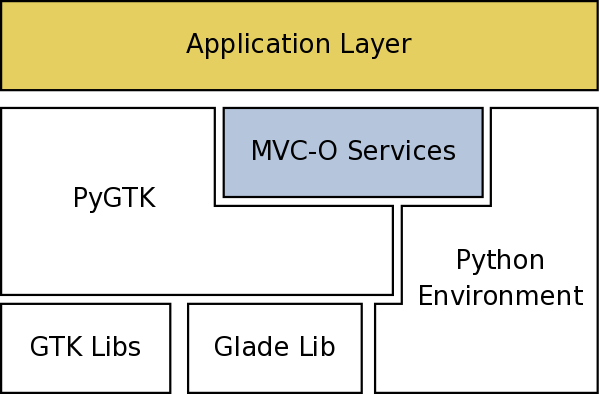
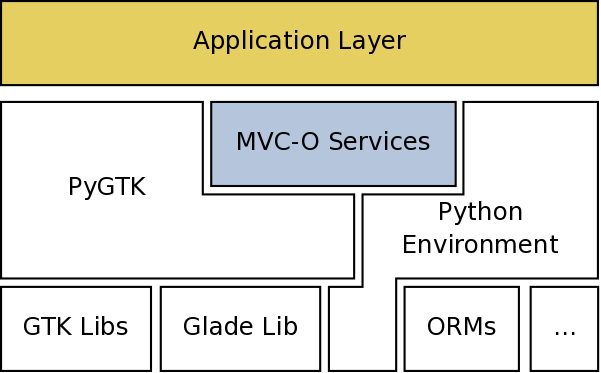
DOCS Fixed arch fig to show where ORMs are located. Changed the type of dia files to binary

diff --git a/gtkmvco/docs/manual/arch.rst b/gtkmvco/docs/manual/arch.rst
@@ -28,9 +28,8 @@ like for example ``TextBuffer`` or ``TreeModel``
 objects. However in general the model part is indenpended on the
 specific graphical toolkit.
 
-Lower layers supply several functionalities concerning the graphical
-toolkit (GTK and *Glade*) and the Scripting Environment (namely
-Python).
-
-
+Lower layers supply several functionalities concerning the
+graphical toolkit (GTK and *Glade*), Object Relational Mapping
+(ORM) libraries, the Scripting Environment (namely Python), and
+other possible libraries providing application-specific features.
 
